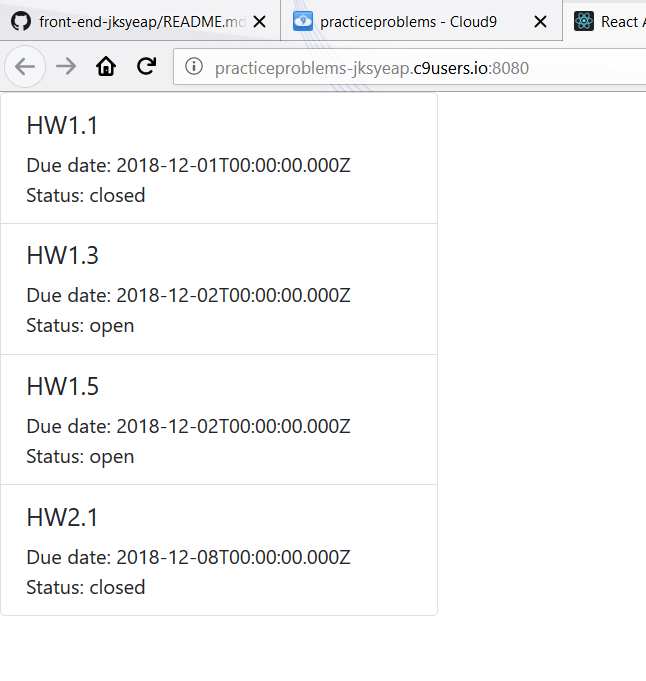
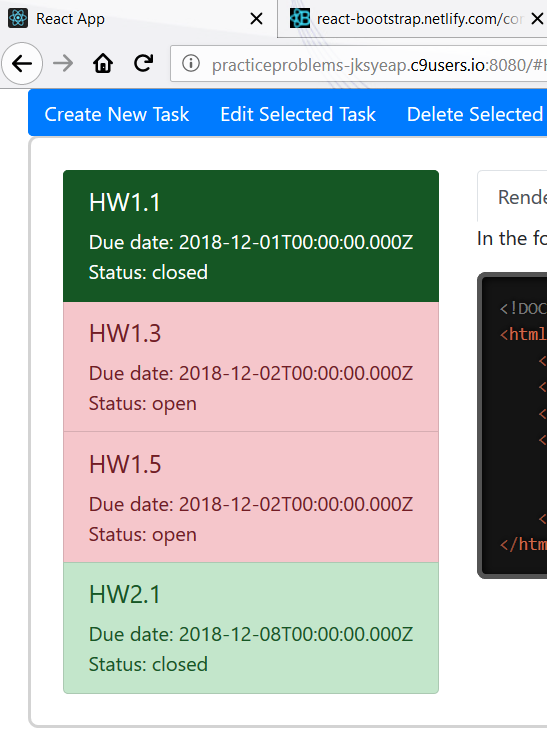
added answers for question 1 to README.md

diff --git a/README.md b/README.md
@@ -10,18 +10,18 @@ class TaskList extends React.Component {
     let tasks = this.props.tasklist;
     let listItems = tasks.map(function(element) {
       if(element["status"] === "closed") {
-        return <ListGroup.Item href={"#"+element["task-name"]} variant="success" action>
+        return <ListGroup.Item href={"#"+element["task-name"]} key={element["task-name"]} variant="success" action>
                  <h5>{element["task-name"]}</h5>
                  Due date: {element["due"]}<br/>
                  Status: {element["status"]}
                </ListGroup.Item>;
       }
       else {
-              return <ListGroup.Item href={"#"+element["task-name"]} variant="danger" action>
-               <h5>{element["task-name"]}</h5>
-               Due date: {element["due"]}<br/>
-               Status: {element["status"]}
-             </ListGroup.Item>;
+        return <ListGroup.Item href={"#"+element["task-name"]} key={element["task-name"]} variant="danger" action>
+                 <h5>{element["task-name"]}</h5>
+                 Due date: {element["due"]}<br/>
+                 Status: {element["status"]}
+               </ListGroup.Item>;
       }
     });
     return <ListGroup>{listItems}</ListGroup>;
@@ -36,12 +36,46 @@ class QuestionPane extends React.Component {
   render() {
     let instructions = this.props.tasklist;
     let items = instructions.map(function(element) {
-      return <Tab.Pane eventKey={"#"+element["task-name"]}>
-               {element["instructions"]};
-             </Tab.Pane>
+      let parsed = reader.parse(element["instructions"]);
+      let result = writer.render(parsed);
+      return <Tab.Pane eventKey={"#"+element["task-name"]} key={element["task-name"]}>
+               <Tabs defaultActiveKey="rendered">
+                 <Tab eventKey="rendered" title="Rendered"><div dangerouslySetInnerHTML={{__html:result}}></div></Tab>
+                 <Tab eventKey="raw" title="Markdown">
+                   <textarea className="raw" value={element["instructions"]} readOnly/>
+                 </Tab>
+               </Tabs>
+             </Tab.Pane>;
     });
     return <Tab.Content>{items}</Tab.Content>;
   }
 }
 ```
 ![Image](1b.png)
+
+## (c)
+There is a top level component called APR.js that holds the state and is a tab container. Under that component there is  
+a component called TaskList.js that lists the tasks in a listgroup, each listgroup item is a clickable tab button and 
+brings up the task instructions in a corresponding tab pane. The tab panes are defined in the QuestionPane.js component.    
+  
+![Image](1c.png)
+
+## (d)
+![Image](1d.png)
+
+## (e)
+Clicking on the "Edit Selected Task" button brings up a modal window component defined in TaskEditor.js. It's controlled by
+the state variable _showEditor_. The modal window has a form in the body that allows editing of the date, status, and  
+instructions.
+  
+![Image](1e.png)
+
+## (f)
+Clicking on the "Create New Task" button brings up a modal window component that is another instance of TaskEditor.js, but  
+this time its props are set to allow creating a new task. Therefore this modal window also has a form in the body that  
+allows editing date, status, instructions, and name.  
+  
+![Image](1f.png)
+
+## Question 2
+## (a)
